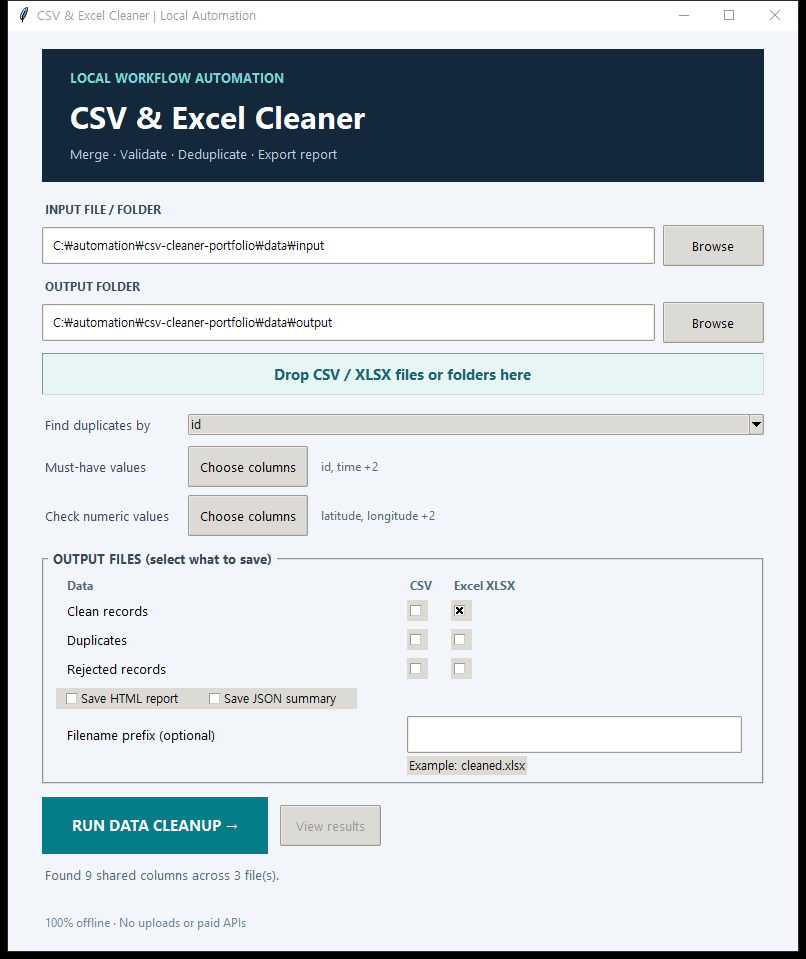
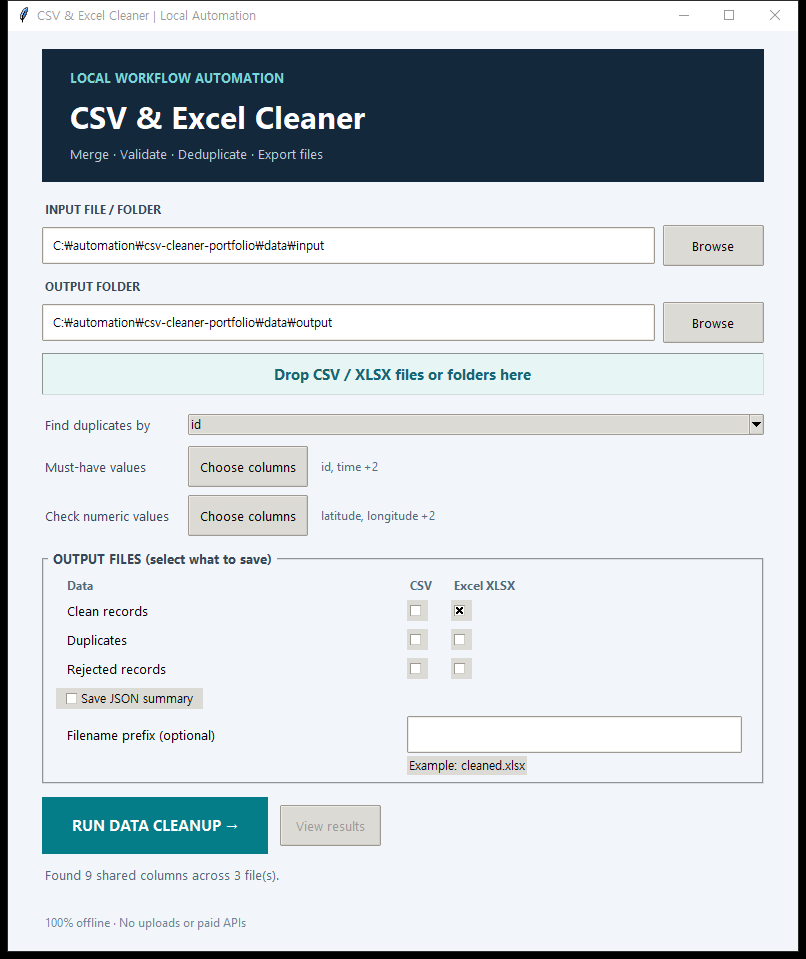
refactor: remove HTML report and use in-app results only

Changed region(s): [[0.1241, 0.6955, 0.4653, 0.756], [0.3722, 0.1512, 0.4032, 0.1814]]

diff --git a/cleaner.py b/cleaner.py
@@ -2,7 +2,6 @@
 from __future__ import annotations
 
 import csv
-import html
 import json
 import math
 import re
@@ -28,7 +27,7 @@ MAX_COLUMNS = 200
 EXPORT_NAMES = frozenset(
     f"{name}.{suffix}" for name in ("cleaned", "duplicates", "rejected")
     for suffix in ("csv", "xlsx")
-) | {"summary.json", "report.html"}
+) | {"summary.json"}
 
 
 def export_filename(name: str, prefix: str = "") -> str:
@@ -225,74 +224,8 @@ def process(input_dir: str | Path | list[str | Path], output_dir: str | Path,
             (staging / export_filename("summary.json", prefix)).write_text(
                 json.dumps({**asdict(summary), "output_directory": "."},
                            indent=2, ensure_ascii=False) + "\n", encoding="utf-8")
-        if "report.html" in exports:
-            (staging / export_filename("report.html", prefix)).write_text(
-                build_report(summary, files, exports, prefix), encoding="utf-8")
         staging.rename(final)
     finally:
         if staging.exists():
             shutil.rmtree(staging)
     return summary
-
-
-def build_report(s: Results, files: list[Path],
-                 exports: set[str] | None = None, prefix: str = "") -> str:
-    exports = set(EXPORT_NAMES) if exports is None else exports
-    esc = html.escape
-    pct = round(s.clean_rows * 100 / s.processed_rows, 1) if s.processed_rows else 0
-    issue_rows = "".join(
-        f"<tr><td>{esc(name.replace('_', ' ').capitalize())}</td><td>{count:,}</td></tr>"
-        for name, count in s.issues.items()
-    ) or '<tr><td colspan="2">No issues detected</td></tr>'
-    input_rows = "".join(
-        f"<tr><td>{esc(p.name)}</td><td>{p.stat().st_size:,} bytes</td></tr>"
-        for p in files
-    )
-    chips = "".join(f'<span class="chip">{esc(field)}</span>' for field in s.columns[:16])
-    downloads = "".join(
-        f'<a href="{esc(export_filename(name, prefix), quote=True)}">'
-        f'{esc(name.replace(".", " ").title())} ↗</a>'
-        for name in ("cleaned.csv", "cleaned.xlsx", "duplicates.csv", "duplicates.xlsx",
-                     "rejected.csv", "rejected.xlsx", "summary.json") if name in exports
-    ) or '<span>No additional files selected</span>'
-    return f"""<!doctype html>
-<html lang="en"><head><meta charset="utf-8"><meta name="viewport" content="width=device-width,initial-scale=1">
-<title>CSV & Excel Cleaner | Processing Report</title>
-<style>
-:root{{--ink:#142439;--muted:#63758a;--line:#e3eaf0;--bg:#f4f7fb;--accent:#047d89;--success:#188674;--warn:#e09a39;--danger:#d85d68}}
-*{{box-sizing:border-box}}body{{margin:0;background:var(--bg);font:15px/1.55 -apple-system,BlinkMacSystemFont,'Segoe UI',Arial,sans-serif;color:var(--ink)}}
-main{{max-width:1080px;margin:0 auto;padding:48px 24px 70px}}
-header{{background:#13283b;color:#fff;padding:42px;border-radius:20px;display:flex;justify-content:space-between;gap:16px;align-items:end}}
-.overline{{color:#7ddee3;letter-spacing:.14em;font-weight:800;font-size:12px}}h1{{font-size:34px;margin:10px 0 8px;line-height:1.15}}header p{{margin:0;color:#bad0dc}}
-.stamp{{font-size:12px;color:#a8c2d2;text-align:right}}.grid{{display:grid;grid-template-columns:repeat(4,1fr);gap:14px;margin:22px 0}}
-.kpi{{background:#fff;border:1px solid var(--line);border-radius:15px;padding:22px}}.kpi small{{display:block;color:var(--muted);font-weight:700}}
-.kpi strong{{font-size:32px;font-weight:750;display:block;margin-top:10px;letter-spacing:-1px}}
-.kpi:nth-child(2) strong{{color:var(--success)}}.kpi:nth-child(3) strong{{color:var(--warn)}}.kpi:nth-child(4) strong{{color:var(--danger)}}
-.panel{{border:1px solid var(--line);background:white;border-radius:16px;padding:26px;margin-top:18px}}
-h2{{margin:0 0 16px;font-size:19px}}.progress{{height:14px;border-radius:40px;background:#e3eaf0;overflow:hidden;display:flex}}
-.good{{background:var(--success)}}.dupe{{background:var(--warn)}}.bad{{background:var(--danger)}}
-.legend{{display:flex;gap:24px;flex-wrap:wrap;margin:14px 0 0;color:var(--muted);font-size:13px}}
-.dot{{display:inline-block;width:10px;height:10px;border-radius:50%;margin-right:6px}}.columns{{display:flex;gap:7px;flex-wrap:wrap}}
-.chip{{padding:5px 10px;background:#edf4f7;color:#426074;border-radius:7px;font:12px Consolas,monospace}}
-table{{width:100%;border-collapse:collapse}}td{{border-bottom:1px solid var(--line);padding:12px 6px}}td:last-child{{text-align:right;font-weight:700}}
-.downloads{{display:flex;flex-wrap:wrap;gap:10px}}.downloads a{{text-decoration:none;color:#006673;border:1px solid #b8d8da;background:#eef9f9;border-radius:9px;padding:10px 15px;font-weight:700;font-size:13px}}
-footer{{color:var(--muted);font-size:12px;margin:22px 4px}}@media(max-width:700px){{.grid{{grid-template-columns:repeat(2,1fr)}}header{{display:block}}.stamp{{text-align:left;margin-top:14px}}h1{{font-size:28px}}}}
-</style></head>
-<body><main><header><div><div class="overline">DATA QUALITY / AUTOMATION</div><h1>CSV & Excel Processing Report</h1><p>Batch merging · data validation · duplicate detection</p></div>
-<div class="stamp">CREATED IN UTC<br>{esc(s.created_utc)}</div></header>
-<div class="grid">
-<div class="kpi"><small>Processed rows</small><strong>{s.processed_rows:,}</strong></div>
-<div class="kpi"><small>Clean rows</small><strong>{s.clean_rows:,}</strong></div>
-<div class="kpi"><small>Duplicates</small><strong>{s.duplicate_rows:,}</strong></div>
-<div class="kpi"><small>Rejected rows</small><strong>{s.rejected_rows:,}</strong></div></div>
-<section class="panel"><h2>Data quality overview · {pct}% accepted</h2>
-<div class="progress"><span class="good" style="width:{s.clean_rows * 100 / max(s.processed_rows, 1):.3f}%"></span>
-<span class="dupe" style="width:{s.duplicate_rows * 100 / max(s.processed_rows, 1):.3f}%"></span>
-<span class="bad" style="width:{s.rejected_rows * 100 / max(s.processed_rows, 1):.3f}%"></span></div>
-<div class="legend"><span><i class="dot" style="background:var(--success)"></i>Accepted</span><span><i class="dot" style="background:var(--warn)"></i>Duplicates</span><span><i class="dot" style="background:var(--danger)"></i>Rejected</span></div></section>
-<section class="panel"><h2>Detected issues</h2><table>{issue_rows}</table></section>
-<section class="panel"><h2>Source files · {s.input_files}</h2><table>{input_rows}</table></section>
-<section class="panel"><h2>Normalized column names</h2><div class="columns">{chips}</div></section>
-<section class="panel"><h2>Exported deliverables</h2><div class="downloads">{downloads}</div></section>
-<footer>Created by CSV Batch Cleaner · Local processing only · No data is sent to external services.</footer>
-</main></body></html>"""

diff --git a/gui.py b/gui.py
@@ -38,11 +38,8 @@ class Window(TkinterDnD.Tk):
         self.export_flags = {name: tk.BooleanVar(value=name == "cleaned.xlsx")
                              for name in EXPORT_NAMES}
         self.last_result = None
-        self.last_exports = set()
-        self.last_prefix = ""
         self.columns = []
         self.events = Queue()
-        self.report_path = None
         self.dropped = None
         self.input_var.trace_add("write", lambda *_: setattr(self, "dropped", None))
         self._build()
@@ -61,7 +58,7 @@ class Window(TkinterDnD.Tk):
                  font=("Segoe UI", 10, "bold")).pack(anchor="w")
         tk.Label(header, text="CSV & Excel Cleaner", bg="#14283b", fg="white",
                  font=("Segoe UI", 23, "bold")).pack(anchor="w", pady=(3, 2))
-        tk.Label(header, text="Merge · Validate · Deduplicate · Export report",
+        tk.Label(header, text="Merge · Validate · Deduplicate · Export files",
                  bg="#14283b", fg="#b9ceda", font=("Segoe UI", 10)).pack(anchor="w")
 
         form = tk.Frame(outer, bg="#f2f6fa")
@@ -108,10 +105,8 @@ class Window(TkinterDnD.Tk):
                     row=row, column=col, sticky="w", padx=8)
         extras = ttk.Frame(export_panel)
         extras.grid(row=4, column=0, columnspan=3, sticky="w", pady=(5, 4))
-        for name, title in (("report.html", "Save HTML report"),
-                            ("summary.json", "Save JSON summary")):
-            ttk.Checkbutton(extras, text=title, variable=self.export_flags[name]).pack(
-                side="left", padx=(7, 18))
+        ttk.Checkbutton(extras, text="Save JSON summary",
+                        variable=self.export_flags["summary.json"]).pack(side="left", padx=7)
         tk.Label(export_panel, text="Filename prefix (optional)", bg="#f2f6fa",
                  font=("Segoe UI", 10)).grid(row=5, column=0, sticky="w", padx=8)
         ttk.Entry(export_panel, textvariable=self.filename_prefix).grid(
@@ -253,14 +248,11 @@ class Window(TkinterDnD.Tk):
         if not exports:
             messagebox.showerror("Select output", "Choose at least one output file.")
             return
-        self.report_path = None
         self.last_result = None
         self.report_btn.configure(state="disabled")
         self.run_btn.configure(state="disabled")
         self.status.set("Processing input files...")
-        self.last_exports = exports
-        self.last_prefix = self.filename_prefix.get().strip()
-        prefix = self.last_prefix
+        prefix = self.filename_prefix.get().strip()
         inputs = (self.dropped or self.input_var.get(), self.output_var.get(),
                   self.key_var.get(), self.required_var.get(), self.numeric_var.get())
 
@@ -286,9 +278,6 @@ class Window(TkinterDnD.Tk):
             messagebox.showerror("CSV Batch Cleaner", result)
             return
         self.last_result = result
-        self.report_path = (Path(result.output_directory) /
-                            export_filename("report.html", self.last_prefix)
-                            if "report.html" in self.last_exports else None)
         self.status.set(f"Complete: {result.clean_rows} clean / {result.duplicate_rows} duplicates / "
                         f"{result.rejected_rows} rejected, from {result.input_files} files. "
                         f"Results: {result.output_directory}")
@@ -335,9 +324,6 @@ class Window(TkinterDnD.Tk):
         buttons.pack(side="bottom", fill="x", pady=(18, 0))
         ttk.Button(buttons, text="Open output folder", command=lambda: webbrowser.open(
             Path(result.output_directory).as_uri())).pack(side="left")
-        if self.report_path:
-            ttk.Button(buttons, text="Open HTML", command=lambda: webbrowser.open(
-                self.report_path.as_uri())).pack(side="left", padx=8)
         ttk.Button(buttons, text="Close", command=dialog.destroy).pack(side="right")
 
 

diff --git a/tests/test_cleaner.py b/tests/test_cleaner.py
@@ -46,7 +46,7 @@ class CleaningTests(unittest.TestCase):
         self.assertEqual(result.issues["duplicate_id"], 1)
         self.assertEqual(result.issues["invalid_number_latitude"], 1)
         self.assertEqual(result.issues["missing_id"], 1)
-        self.assertTrue(output_file(result, "report.html").exists())
+        self.assertTrue(output_file(result, "summary.json").exists())
         with output_file(result, "cleaned.csv").open(encoding="utf-8-sig", newline="") as fp:
             rows = list(csv.DictReader(fp))
         self.assertEqual({r["id"] for r in rows}, {"EQ1", "EQ2", "EQ4"})
@@ -337,34 +337,29 @@ class CleaningTests(unittest.TestCase):
         self.assertEqual(files, {"October_2026_cleaned.xlsx", "October_2026_rejected.csv"})
         self.assertEqual((result.clean_rows, result.duplicate_rows, result.rejected_rows), (1, 1, 1))
 
-    def test_optional_report_links_include_only_generated_names(self):
+    def test_optional_json_and_prefixed_filename(self):
         write_csv(self.src / "one.csv", [["id"], ["A"]])
         result = process(self.src, self.out,
-                         exports={"cleaned.csv", "summary.json", "report.html"},
-                         prefix="client_1")
+                         exports={"cleaned.csv", "summary.json"}, prefix="client_1")
         names = {p.name for p in Path(result.output_directory).iterdir()}
-        self.assertEqual(names, {"client_1_cleaned.csv", "client_1_summary.json", "client_1_report.html"})
-        report = output_file(result, "client_1_report.html").read_text(encoding="utf-8")
-        self.assertIn('href="client_1_cleaned.csv"', report)
-        self.assertIn('href="client_1_summary.json"', report)
-        self.assertNotIn('href="rejected.csv"', report)
-        self.assertNotIn('href="duplicates.xlsx"', report)
+        self.assertEqual(names, {"client_1_cleaned.csv", "client_1_summary.json"})
+        summary = json.loads(output_file(result, "client_1_summary.json").read_text(encoding="utf-8"))
+        self.assertEqual((summary["clean_rows"], summary["output_directory"]), (1, "."))
 
-    def test_html_report_only_does_not_create_spreadsheet_files(self):
+    def test_removed_html_output_is_rejected(self):
         write_csv(self.src / "one.csv", [["id"], ["A"]])
-        result = process(self.src, self.out, exports={"report.html"})
-        self.assertEqual([p.name for p in Path(result.output_directory).iterdir()], ["report.html"])
-        self.assertIn("No additional files selected",
-                      output_file(result, "report.html").read_text(encoding="utf-8"))
+        with self.assertRaisesRegex(ValueError, "supported output"):
+            process(self.src, self.out, exports={"report.html"})
+        self.assertFalse(self.out.exists())
 
-    def test_no_report_or_summary_is_necessary(self):
+    def test_no_json_summary_is_necessary(self):
         write_csv(self.src / "one.csv", [["id"], ["A"]])
         result = process(self.src, self.out, exports={"cleaned.csv"})
         self.assertEqual([p.name for p in Path(result.output_directory).iterdir()], ["cleaned.csv"])
 
     def test_invalid_output_selections_and_prefix_do_not_create_results(self):
         write_csv(self.src / "one.csv", [["id"], ["A"]])
-        for kwargs in ({"exports": set()}, {"exports": {"cleaned.pdf"}},
+        for kwargs in ({"exports": set()}, {"exports": {"cleaned.pdf"}}, {"exports": {"report.html"}},
                        {"prefix": "../unsafe"}, {"prefix": "a/b"}, {"prefix": "a" * 41}):
             with self.subTest(kwargs=kwargs):
                 with self.assertRaisesRegex(ValueError, "output|prefix"):

diff --git a/cli.py b/cli.py
@@ -14,7 +14,7 @@ def main() -> int:
     parser.add_argument("--key", default=DEFAULT_KEY, help="Unique record key (default: id)")
     parser.add_argument("--required", default=DEFAULT_REQUIRED, help="Comma-separated required columns")
     parser.add_argument("--numeric", default=DEFAULT_NUMERIC, help="Comma-separated numeric columns")
-    parser.add_argument("--exports", help="Comma-separated outputs, e.g. cleaned.xlsx,rejected.csv,report.html; default: all")
+    parser.add_argument("--exports", help="Comma-separated outputs, e.g. cleaned.xlsx,rejected.csv,summary.json; default: all")
     parser.add_argument("--prefix", default="", help="Optional filename prefix (letters, digits, _ or -)")
     args = parser.parse_args()
     try:

diff --git a/README.md b/README.md
@@ -1,8 +1,6 @@
 # CSV & Excel Batch Cleaner
 
-**Offline Python automation for merging CSV/XLSX exports, validating records, detecting duplicates, and generating an audit-friendly HTML report.** A small desktop GUI and CLI use the **same processing engine**.
-
-![HTML report screenshot](assets/report-preview.png)
+**Offline Python automation for merging CSV/XLSX exports, validating records, detecting duplicates, and showing results directly in the desktop app.** The GUI and CLI use the **same processing engine**.
 
 > **Portfolio demonstration, not a client project.** Three publicly released U.S. government datasets (USGS, NOAA, Census) are tested with **deliberately injected, labeled synthetic errors**. No real client data or client results are claimed.
 
@@ -24,7 +22,7 @@ Manually opening multiple spreadsheet exports, copying rows, checking missing fi
 | Case-insensitive deduplication using an ID column | Supported |
 | Source filename and original row tracking | Supported |
 | Independently select clean / duplicate / rejected results as CSV and/or XLSX | Supported |
-| In-app results dashboard; optional HTML report and JSON summary | Supported |
+| In-app results dashboard and optional JSON summary | Supported |
 | Optional filename prefix on all selected outputs | Supported |
 | Windows GUI and scriptable CLI | Supported |
 | No cloud uploads or paid APIs | Supported |
@@ -63,7 +61,7 @@ python gui.py
 
 1. **Drop** one or more CSV/XLSX files or folders, or select an input folder using **Browse**.
 2. Select the duplicate key and optional required/numeric checks from the detected columns.
-3. Under **Output files**, check only the CSV/XLSX categories you need. Optionally check **Save HTML report** and **Save JSON summary**.
+3. Under **Output files**, choose only the CSV/XLSX categories you need. **Save JSON summary** is optional.
 4. Optionally enter a filename prefix, e.g. `October` → `October_cleaned.xlsx`.
 5. Click **Run Data Cleanup**. The result counts, issue reasons and saved filenames appear **inside the app**, with a button to open the output folder.
 
@@ -81,10 +79,10 @@ Use `--exports` and `--prefix` to choose the exact CLI outputs:
 
 ```bash
 python cli.py --input data/input --output data/output \
-  --exports cleaned.xlsx,rejected.csv,report.html --prefix October
+  --exports cleaned.xlsx,rejected.csv,summary.json --prefix October
 ```
 
-The CLI defaults to all eight output files for compatibility; GUI export choices are independent.
+The CLI defaults to all seven supported files (six CSV/XLSX combinations plus JSON); GUI export choices are independent.
 
 For another business export, change the input/output directory and validation field names. **Every configured required or numeric column must exist in each source file.** Names are normalized consistently (for example, `Order ID` becomes `order_id`); the tool does not guess whether differently named columns have the same meaning.
 
@@ -117,9 +115,8 @@ Every run creates a **new subfolder** under the requested output folder, such as
 | `duplicates.csv` / `duplicates.xlsx` | Extra records sharing the same ID |
 | `rejected.csv` / `rejected.xlsx` | Invalid records with reasons and any overflow columns preserved |
 | `summary.json` | Machine-readable processing totals |
-| `report.html` | Standalone report linking only to files actually generated |
 
-Select individual combinations; nothing extra is exported. The in-app report is displayed even when HTML and JSON are not selected. Prefixes are optional and support letters, numbers, underscores and hyphens (up to 40 characters).
+Select individual combinations; nothing extra is exported. The in-app result summary appears after processing even without JSON output. Prefixes are optional and support letters, numbers, underscores and hyphens (up to 40 characters).
 
 The original input files are never modified. Results are written to a staging directory first and published as a complete run folder only after every output is created successfully.
 

diff --git a/UPWORK_PORTFOLIO.md b/UPWORK_PORTFOLIO.md
@@ -6,7 +6,7 @@
 
 Built an offline Python automation tool that merges multiple CSV and Excel (XLSX) files, standardizes column names, validates required and numeric fields, removes duplicate records, and generates reviewable reports.
 
-The tool includes a Windows-friendly desktop GUI with drag-and-drop input and column selection without manual typing, a command-line interface, and a visual HTML data-quality dashboard. Each run safely writes a fresh output folder. Users can independently choose CSV/XLSX formats for clean, duplicate and rejected records, add a filename prefix, and review the outcome directly in the desktop app. HTML and JSON exports are optional.
+The tool includes a Windows-friendly desktop GUI with drag-and-drop input and column selection without manual typing, a command-line interface, and an in-app data-quality results dashboard. Each run safely writes a fresh output folder. Users can independently choose CSV/XLSX formats for clean, duplicate and rejected records, add a filename prefix, and review the outcome directly in the desktop app. JSON summary export is optional.
 
 For a reproducible demonstration, I tested three public U.S. government datasets (USGS, NOAA, Census) with clearly labeled synthetic errors: 582 records, 542 clean, 14 duplicates, and 26 rejected. Forty-one automated regression tests passed.
 
@@ -18,6 +18,6 @@ The workflow runs locally without paid APIs or uploads to external services. It 
 
 **Public repository:** https://github.com/Tig0w0/csv-batch-cleaner
 
-**Suggested media:** `assets/gui-preview.png`, `assets/report-preview.png`, source and output example files.
+**Suggested media:** `assets/gui-preview.png`, source and output example files.
 
 **Disclosure:** This is a portfolio prototype, not an official USGS product. Deliberate quality issues are synthetic.
